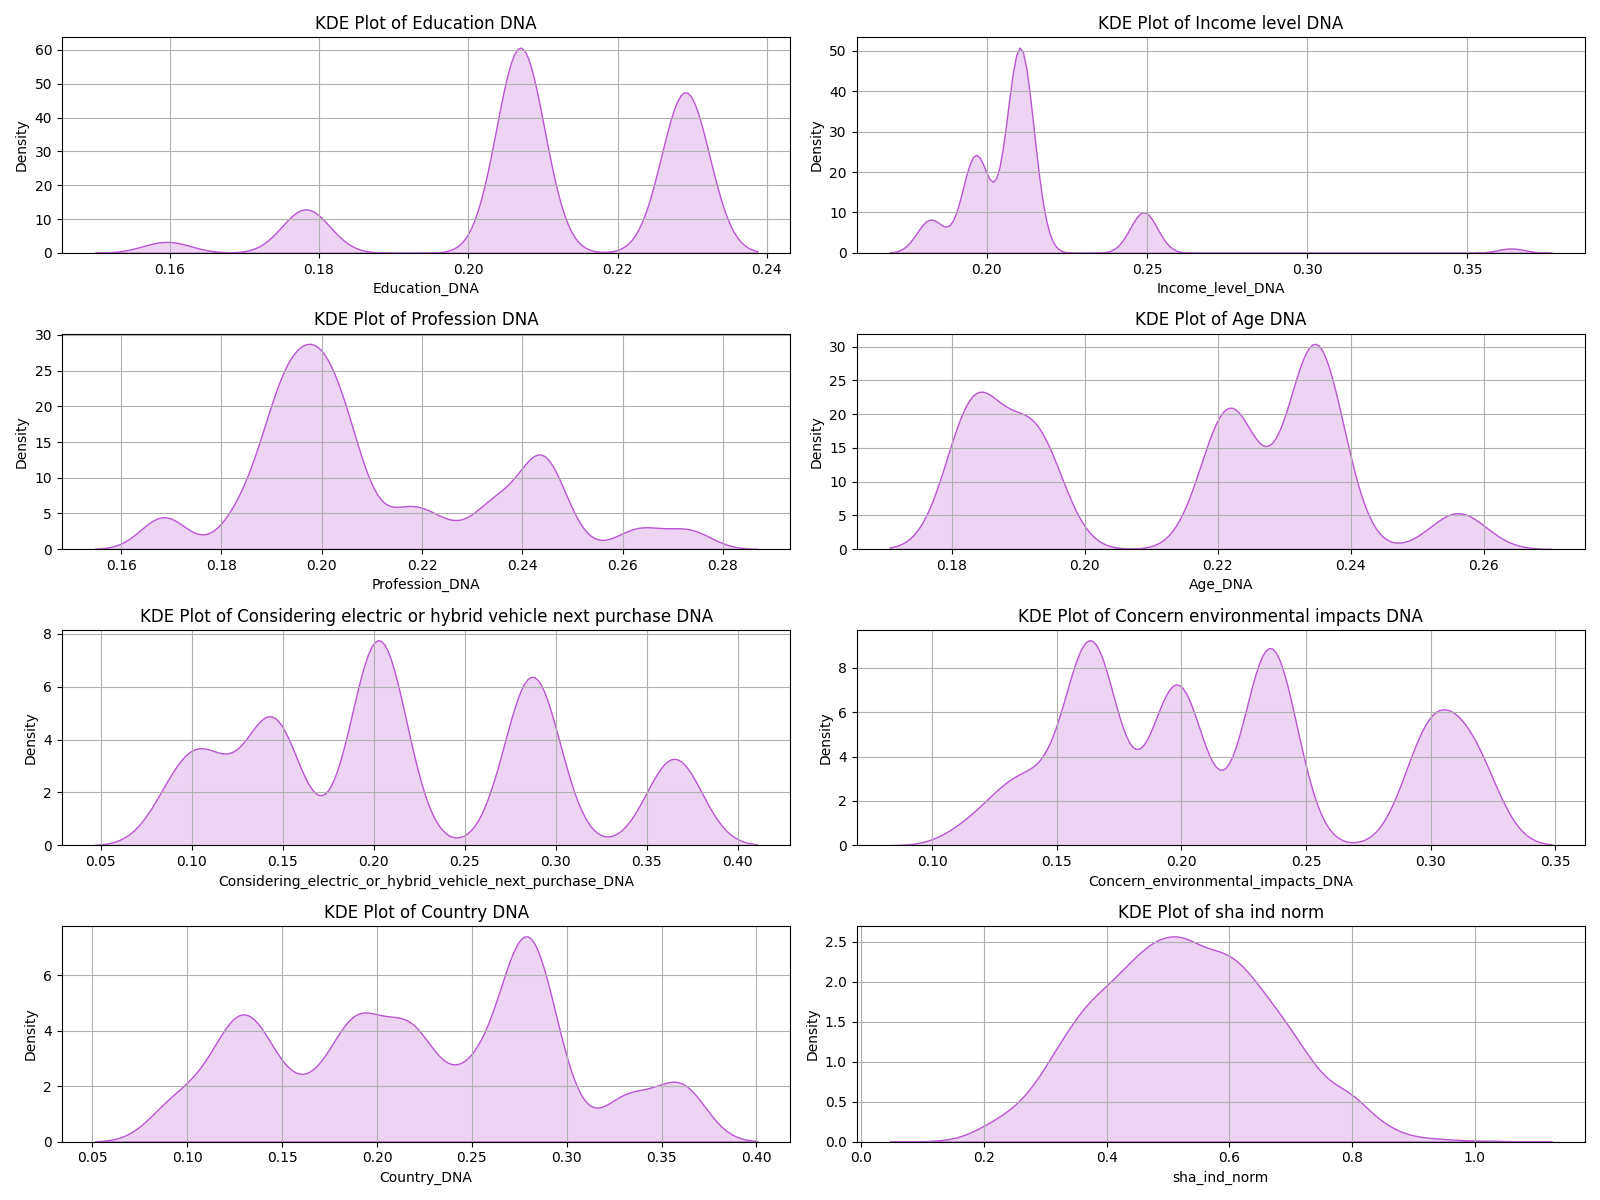
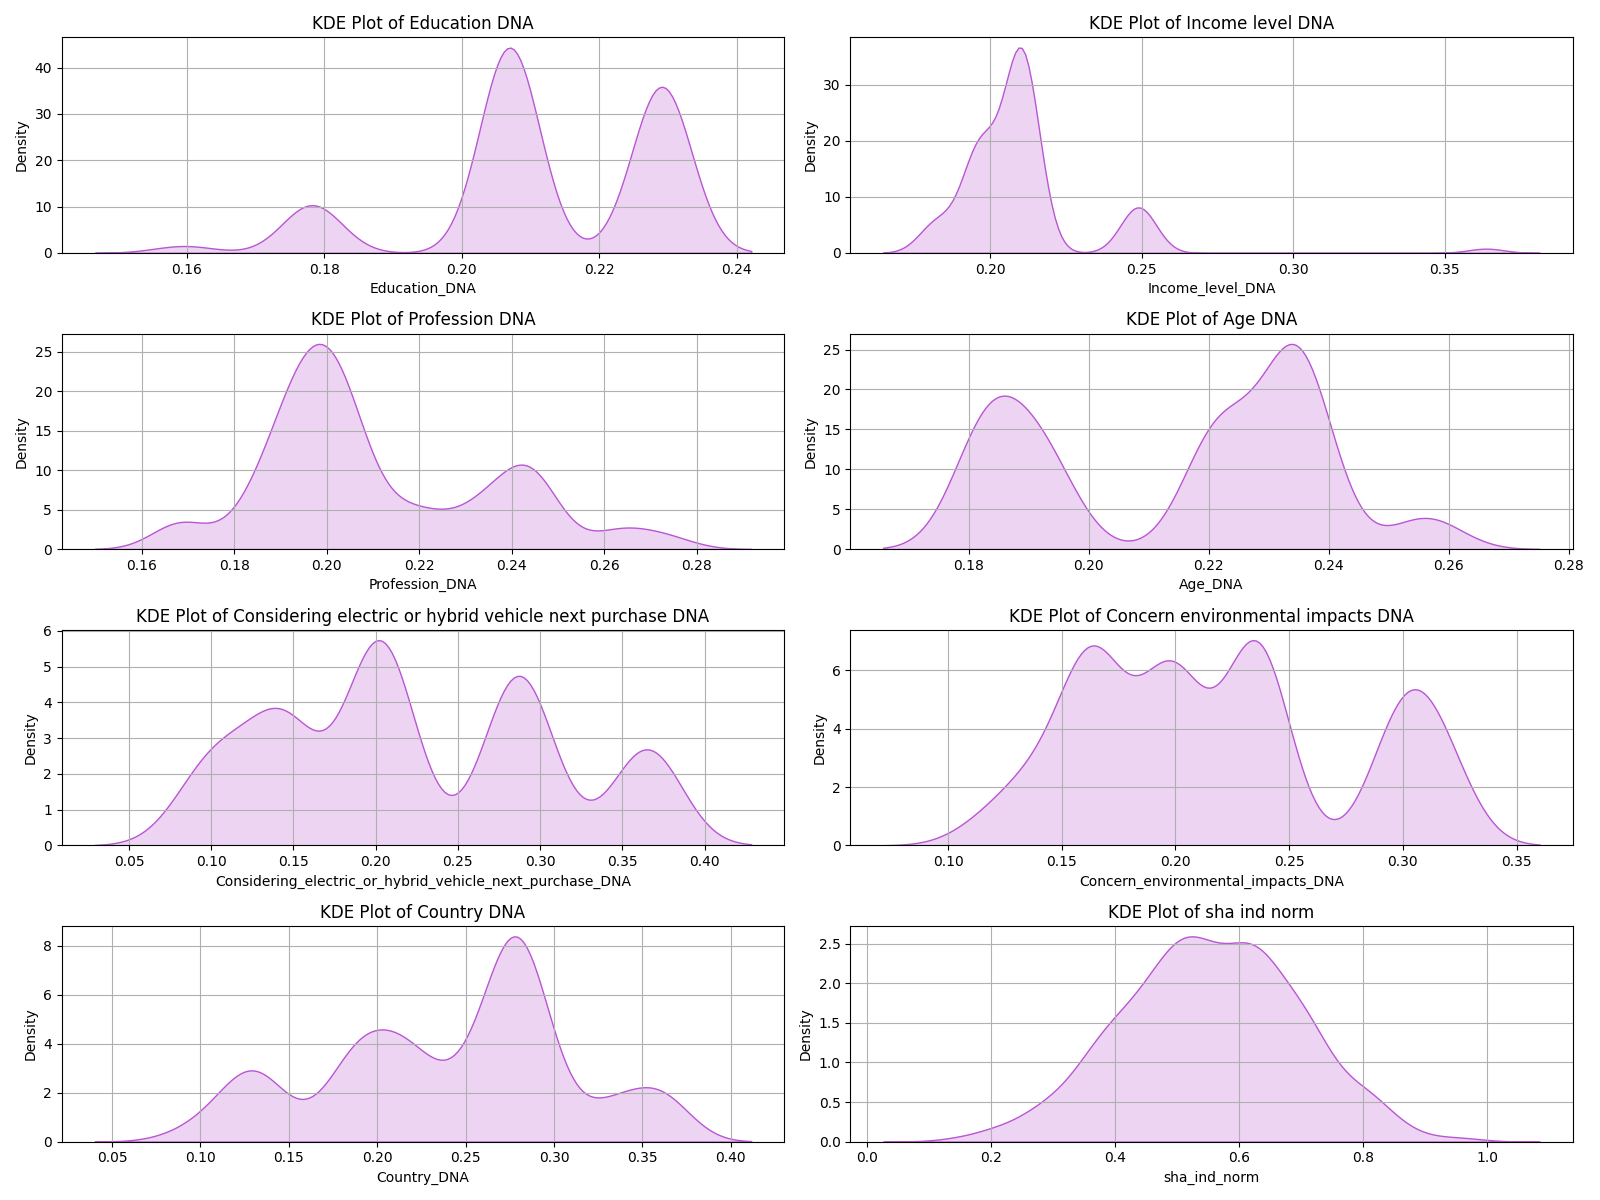
redone the exploratory analysis plot for the subset of 1000 rows used instead of the whole dataset

diff --git a/agent-based-basic/exploratory_analysis.py b/agent-based-basic/exploratory_analysis.py
@@ -5,14 +5,14 @@ import pandas as pd
 
 
 def countplot(attribute):
-    plt.figure(figsize=(10, 6))
+   # plt.figure(figsize=(10, 6))
     ax = sns.countplot(x=attribute, data=df, order=df[attribute].value_counts().index, hue=attribute, legend="brief", palette='plasma')
     ax.set_xticklabels([])
     for container in ax.containers:
         ax.bar_label(container)
     plt.legend(loc='upper right', ncol=2)
     plt.title(f'{attribute.replace("_", " ")} Distribution')
-    plt.savefig(f"./countplot/{attribute.lower()}_distribution.png")
+   # plt.savefig(f"./exploratory_analysis/countplot/{attribute.lower()}_distribution.png")
 
 
 def kdeplot(attribute):
@@ -38,6 +38,8 @@ def crosstab(attribute_1, attribute_2):
 from preprocessing import load_dataset_csv
 df = load_dataset_csv("/Users/giuliatesta/PycharmProjects/masters-thesis-project/dataset/df_DNA_sharingEU.csv",
                       index=False)
+df = df.head(1000)
+
 df.rename(columns={"Age_c": "Age", "Location_of_resudence": "Location_of_residence", "Would_subsribe_car_sharing_if_available": "Would_subscribe_car_sharing_if_available"}, inplace=True)
 print(df.columns)
 
@@ -55,8 +57,8 @@ df["Profession"] = df["Profession"].replace("business owner/entrepreneur", "busi
 df["Profession"] = df["Profession"].replace("registered freelance professional", "registered freelance")
 df["Profession"] = df["Profession"].replace("storekeeper/tradesman/craftsman", "storekeeper")
 # DESCRIPTION for CATEGORICAL and NUMERICAL values
-# description = df.describe()
-# description.to_csv("description_numerical.csv")
+#description = df.describe(include='object')
+#description.to_csv("description_categorical.csv")
 
 # COUNT PLOTS
 # plt.figure(figsize=(16, 12))
@@ -98,21 +100,22 @@ df["Profession"] = df["Profession"].replace("storekeeper/tradesman/craftsman", "
 # kdeplot("Concern_environmental_impacts_DNA")
 # plt.subplot(4, 2, 7)
 # kdeplot("Country_DNA")
-plt.figure()#.subplot(4, 2, 8)
-kdeplot("sha_ind")
+# plt.subplot(4, 2, 8)
+# kdeplot("sha_ind_norm")
 # plt.tight_layout()
-plt.savefig(f"./kdeplot/sha_ind_distribution.png")
+# plt.savefig(f"./exploratory_analysis/kdeplot/kdeplots_DNA.png")
 
-# BOX PLOTS
-# plt.figure()
-# numerical_columns = ["Education_DNA", "Income_level_DNA", "Profession_DNA", "Age_DNA", "Considering_electric_or_hybrid_vehicle_next_purchase_DNA", "Concern_environmental_impacts_DNA", "Country_DNA"]
-# sns.boxplot(data=df[numerical_columns], legend=True, palette='plasma')
-# plt.subplots_adjust(bottom=0.25)
-# plt.legend(loc='lower center', bbox_to_anchor=(0.5, -0.35))
-# plt.xticks([])
-# plt.grid()
-# plt.title(f'Box Plot of sharing DNA')
-# plt.savefig(f"./exploratory_analysis/boxplot/sharing_dna_distribution.png")
+#BOX PLOTS
+plt.figure()
+numerical_columns = ["Education_DNA", "Income_level_DNA", "Profession_DNA", "Age_DNA",
+                     "Considering_electric_or_hybrid_vehicle_next_purchase_DNA", "Concern_environmental_impacts_DNA", "Country_DNA"]
+sns.boxplot(data=df[numerical_columns], legend=True, palette='plasma')
+plt.subplots_adjust(bottom=0.35)
+plt.legend(loc='lower center', bbox_to_anchor=(0.5, -0.65))
+plt.xticks([])
+plt.grid()
+plt.title(f'Box Plot of sharing DNA')
+plt.savefig(f"./exploratory_analysis/boxplot/sharing_dna_distribution.png")
 
 
 # Stacked bar plot of Education vs Willingness to subscribe to car sharing
